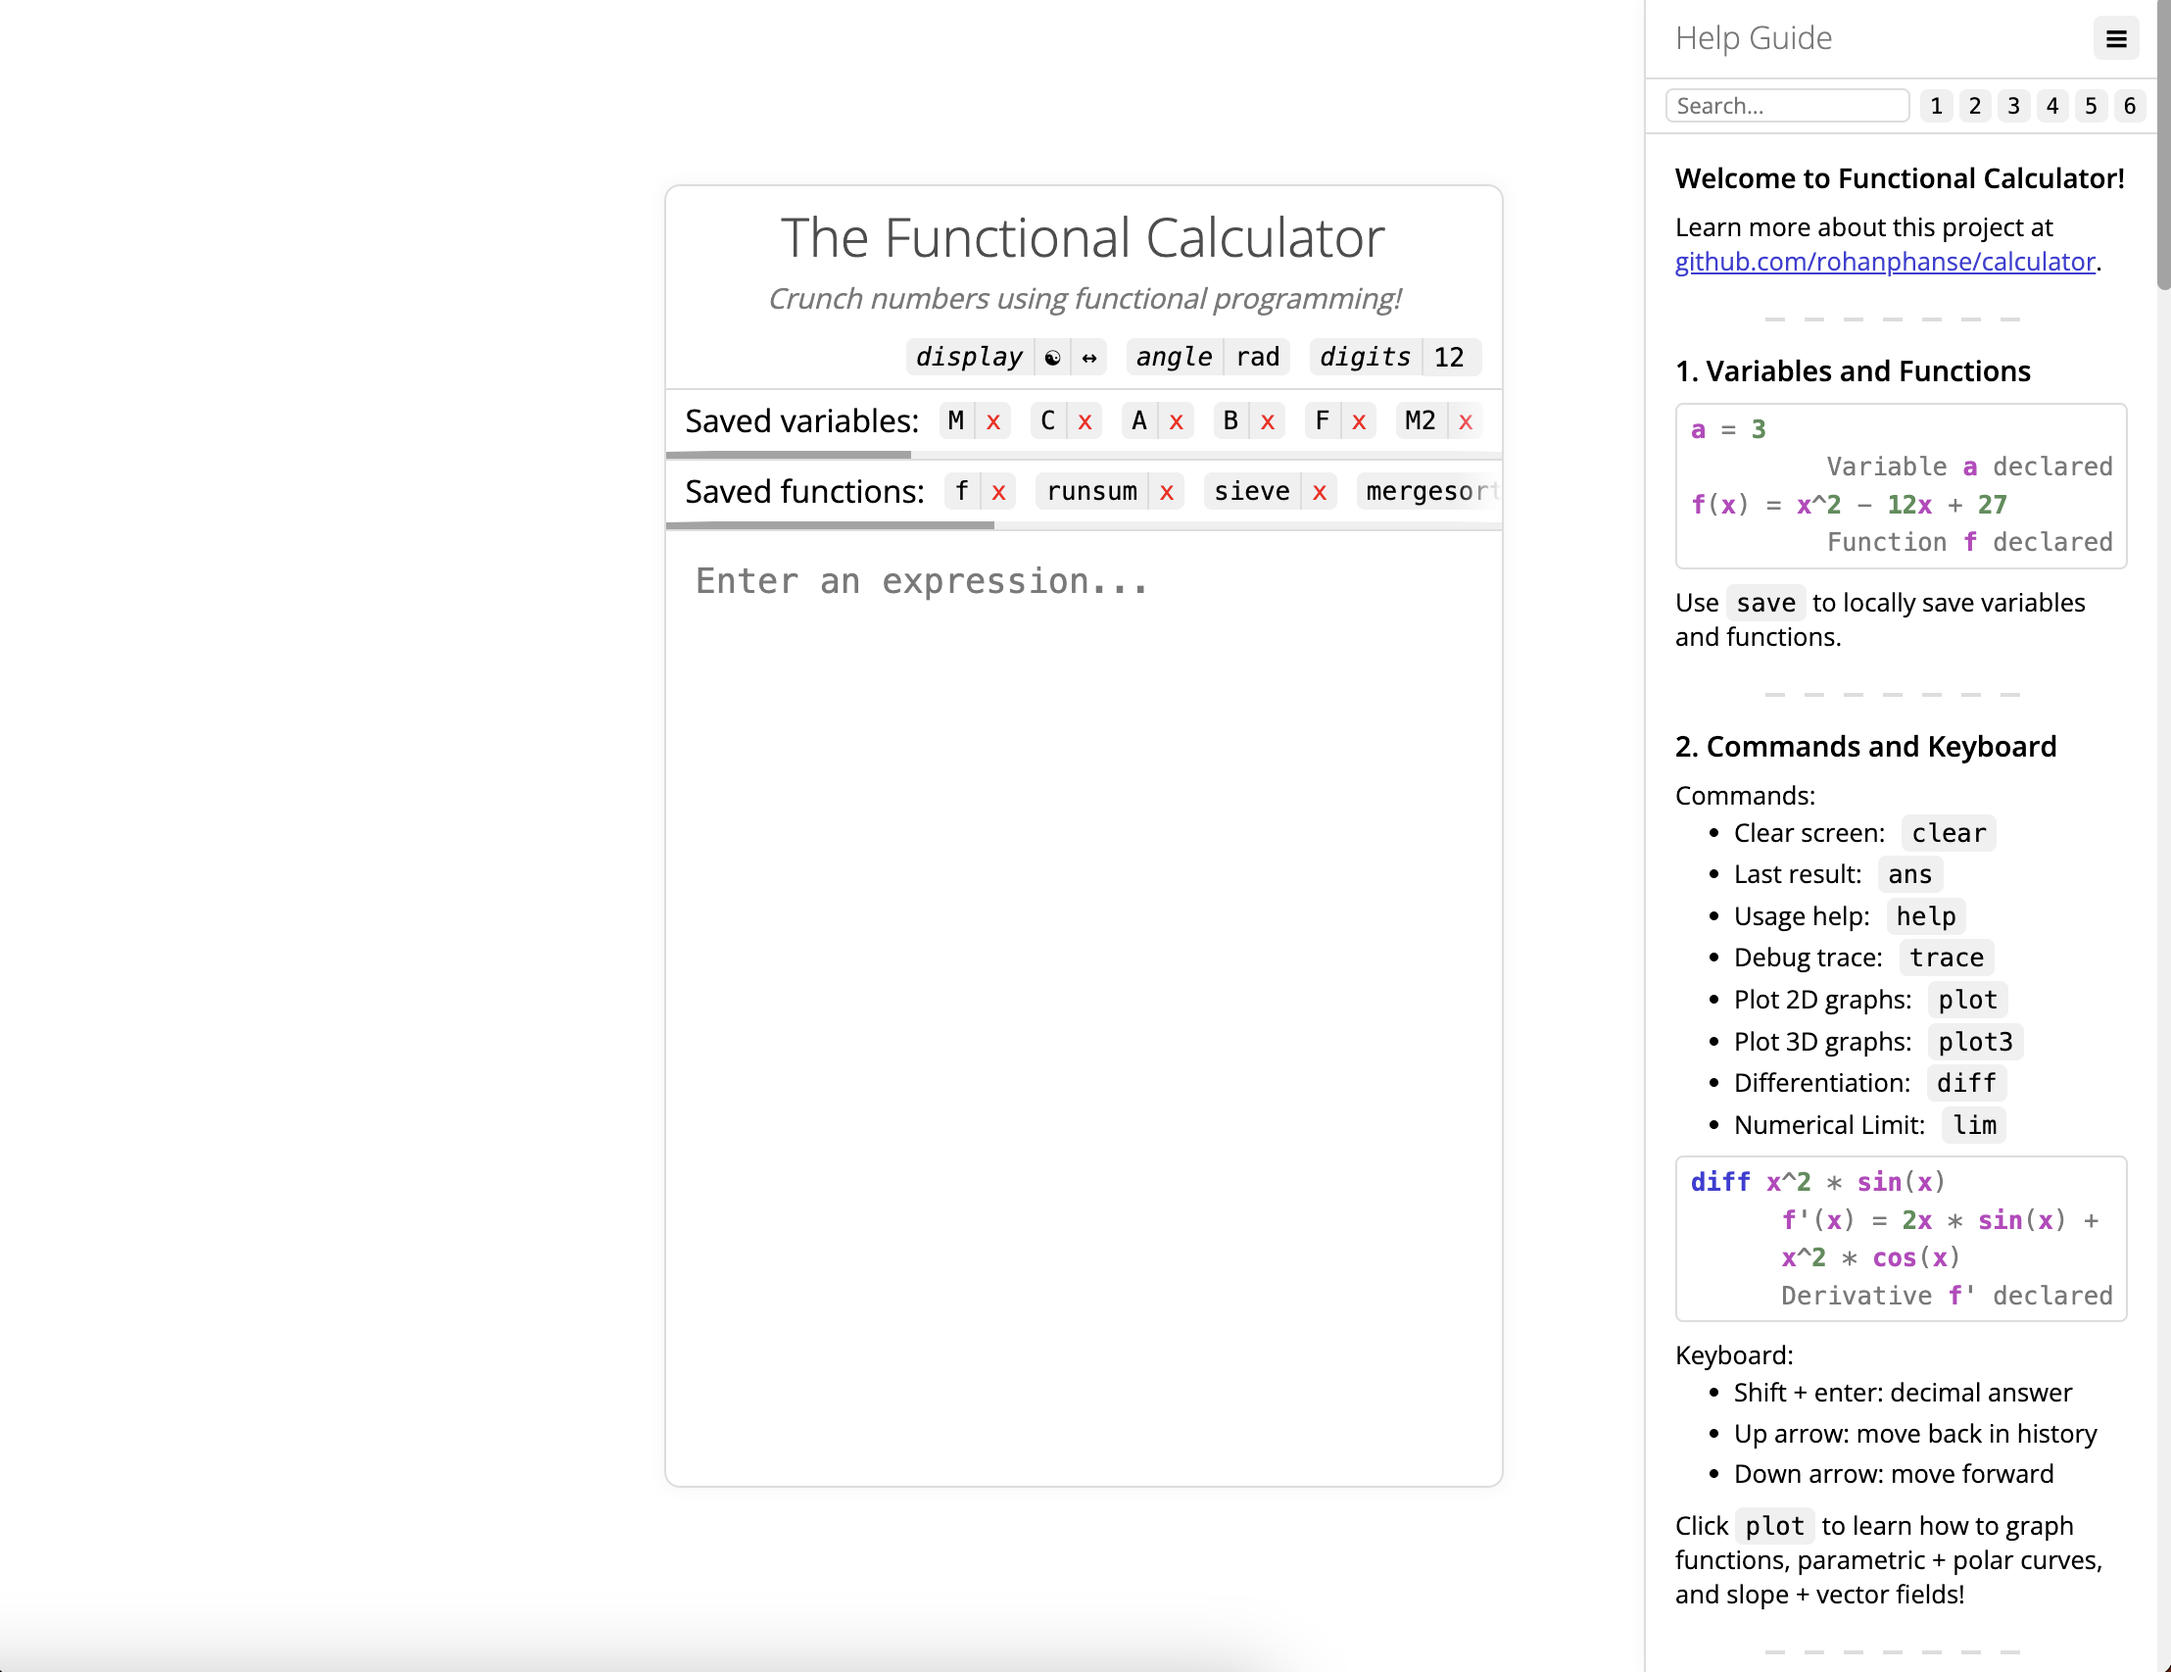
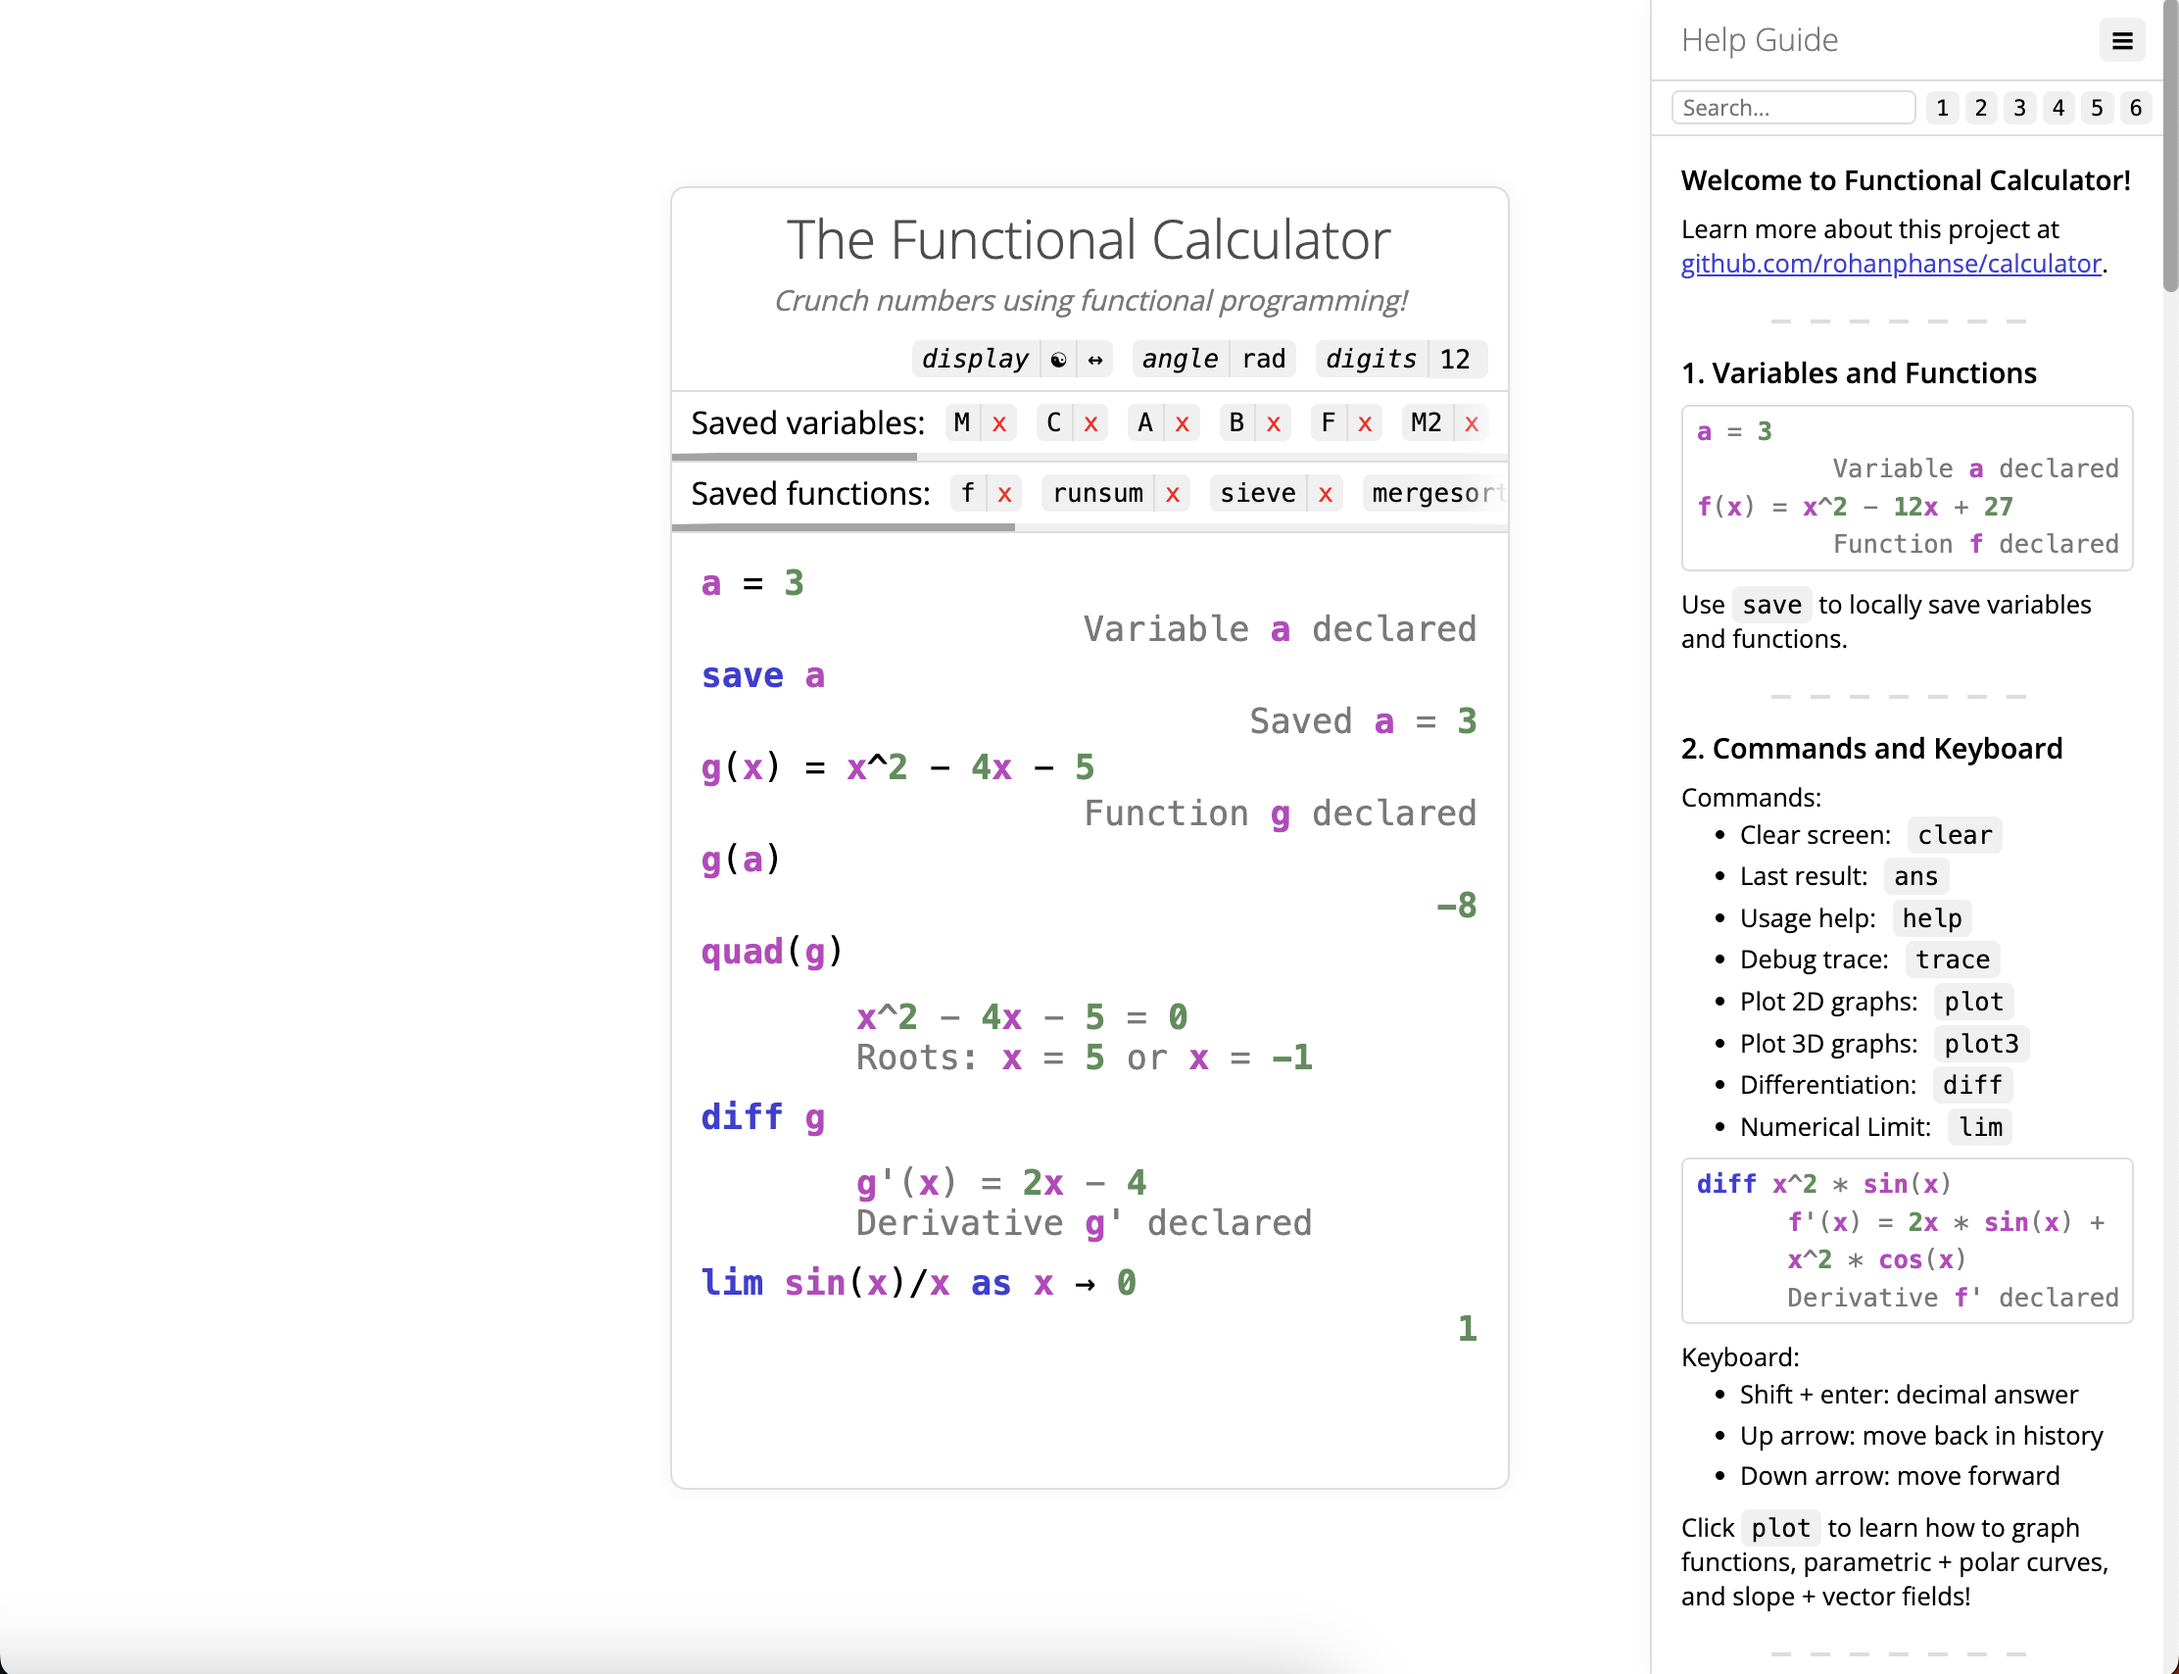
Add demos

diff --git a/scripts/operations.js b/scripts/operations.js
@@ -405,6 +405,9 @@ const OPERATIONS = {
                 return "Divide by zero error"
             }
             if (typeof a === "number" && typeof b === "number") {
+                if (Number.isInteger(a) && Number.isInteger(b)) {
+                    return new Fraction(a, b)
+                }
                 return a / b
             } else if (a instanceof ComplexNumber || b instanceof ComplexNumber) {
                 if (!(a instanceof ComplexNumber) && typeof a !== "number") {
@@ -426,8 +429,6 @@ const OPERATIONS = {
                     }
                     return new ComplexNumber(a.re / b, a.im / b)
                 }
-            } else if (Number.isInteger(a) && Number.isInteger(b)) {
-                return new Fraction(a, b)
             } else if (a instanceof Fraction && b instanceof Fraction) {
                 return new Fraction(a.n * b.d, a.d * b.n)
             } else if (a instanceof Fraction && Number.isInteger(b)) {

diff --git a/scripts/calculator.js b/scripts/calculator.js
@@ -525,7 +525,7 @@ class Calculator {
 
     // Evaluate numerical result from tokens
     evaluate(tokens, options = {}) {
-        // console.log("evaluate", JSON.stringify(tokens), options)
+        console.log("evaluate", JSON.stringify(tokens), options)
         this.overflow_count++
         if (this.overflow_count > this.overflow_max) {
             return "Overflow error: too many function calls"

diff --git a/README.md b/README.md
@@ -6,21 +6,30 @@ My goal for this project was to create a web calculator that offered standard ca
 
 As a challenge to myself, I decided not to use any external libraries. The entire calculator including the parser, evaluation engine, and UI was implemented with a few thousand lines of JavaScript code!
 
-**Math features:** linear algebra (e.g. `rref` and `eigen`), calculus (e.g. `diff` and `lim`), complex numbers, polynomial root solvers, 2D graphing with `plot`, 3D graphing with `plot3` 
+**Math Features:** linear algebra (e.g. `rref` and `eigen`), calculus (e.g. `diff` and `lim`), complex numbers, polynomial root solvers, 2D graphing with `plot`, 3D graphing with `plot3` 
 
-**Physics and Chemistry features:** physical units and constants, molar masses, balance chemical equations with `bal`
+**Physics and Chemistry Features:** physical units and constants, molar masses, `bal`ance chemical equations
 
-**Functional programming features:** variables, regular and anonymous `@` functions, `map` and `filter`, type checking, lambda capture, currying, conditional logic, `trace` function calls
+**Functional Programming Features:** variables, regular and anonymous `@` functions, `map` and `filter`, type checking, lambda capture, currying, conditional logic, `trace` function calls
 
-**Terminal features:** arrow keys move through history, `help` documentation, syntax highlighting, autocomplete
+**Terminal Features:** arrow keys move through history, `help` documentation, syntax highlighting, autocomplete
 
-**Additional features:** locally save variables and functions, unit and base conversions
+**Additional Features:** locally save variables and functions, unit and base conversions
+## Demo
 
 **Link to demo: <a href = "https://rohanphanse.github.io/calculator/">https://rohanphanse.github.io/calculator</a>**
 
-## Demo
+### Variables, functions, `save`, `diff`, and `lim`
+![demo 1](https://raw.githubusercontent.com/rohanphanse/calculator/refs/heads/main/images/demo_1.png) 
 
-Light Mode             |  Dark Mode
-:-------------------------:|:-------------------------:
-![](https://raw.githubusercontent.com/rohanphanse/calculator/refs/heads/main/images/demo_1.png)  |  ![](https://raw.githubusercontent.com/rohanphanse/calculator/refs/heads/main/images/demo_2.png)
+### 2D Graphing with `plot`
+![demo 2](https://raw.githubusercontent.com/rohanphanse/calculator/refs/heads/main/images/demo_2.png) 
 
+### Dark mode and `help plot`
+![demo dark mode](https://raw.githubusercontent.com/rohanphanse/calculator/refs/heads/main/images/demo_dark_mode.png) 
+
+### 3D Graphing with `plot3` 
+![demo 3](https://raw.githubusercontent.com/rohanphanse/calculator/refs/heads/main/images/demo_3.png) 
+
+### Fractions, unit and base conversions, linear algebra
+![demo 4](https://raw.githubusercontent.com/rohanphanse/calculator/refs/heads/main/images/demo_4.png) 
